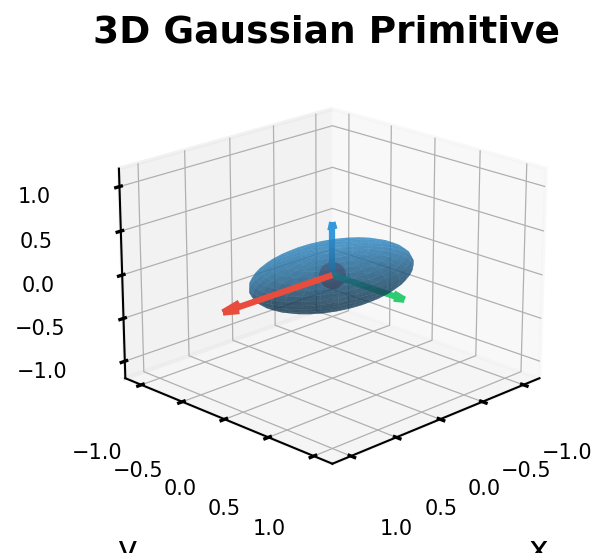
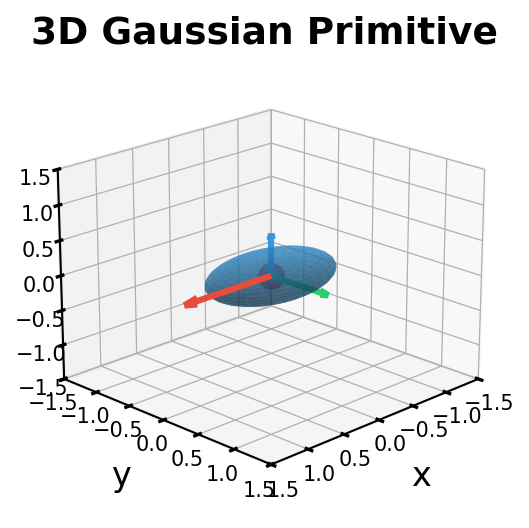
Fix Gaussian representation figure cutoff

diff --git a/papers/scripts/generate_figures.py b/papers/scripts/generate_figures.py
@@ -156,11 +156,13 @@ def create_gaussian_representation(output_dir):
     for vec, c in [([1.2, 0, 0], COLORS['red']), ([0, 0.8, 0], COLORS['green']), ([0, 0, 0.6], COLORS['blue'])]:
         ax.quiver(0, 0, 0, *vec, color=c, arrow_length_ratio=0.15, linewidth=1.5)
     
-    ax.set_xlabel('x'); ax.set_ylabel('y'); ax.set_zlabel('z')
-    ax.set_xlim(-1.2, 1.2); ax.set_ylim(-1.2, 1.2); ax.set_zlim(-1.2, 1.2)
-    ax.tick_params(labelsize=5)
+    ax.set_xlabel('x', labelpad=-10)
+    ax.set_ylabel('y', labelpad=-10)
+    ax.set_zlabel('z', labelpad=-10)
+    ax.set_xlim(-1.5, 1.5); ax.set_ylim(-1.5, 1.5); ax.set_zlim(-1.5, 1.5)
+    ax.tick_params(labelsize=5, pad=-5)
     ax.view_init(elev=20, azim=45)
-    ax.set_title('3D Gaussian Primitive', fontsize=9, fontweight='bold', pad=0)
+    ax.set_title('3D Gaussian Primitive', fontsize=9, fontweight='bold', pad=-5)
     
     save_fig(fig, output_dir, 'gaussian_representation')
 
